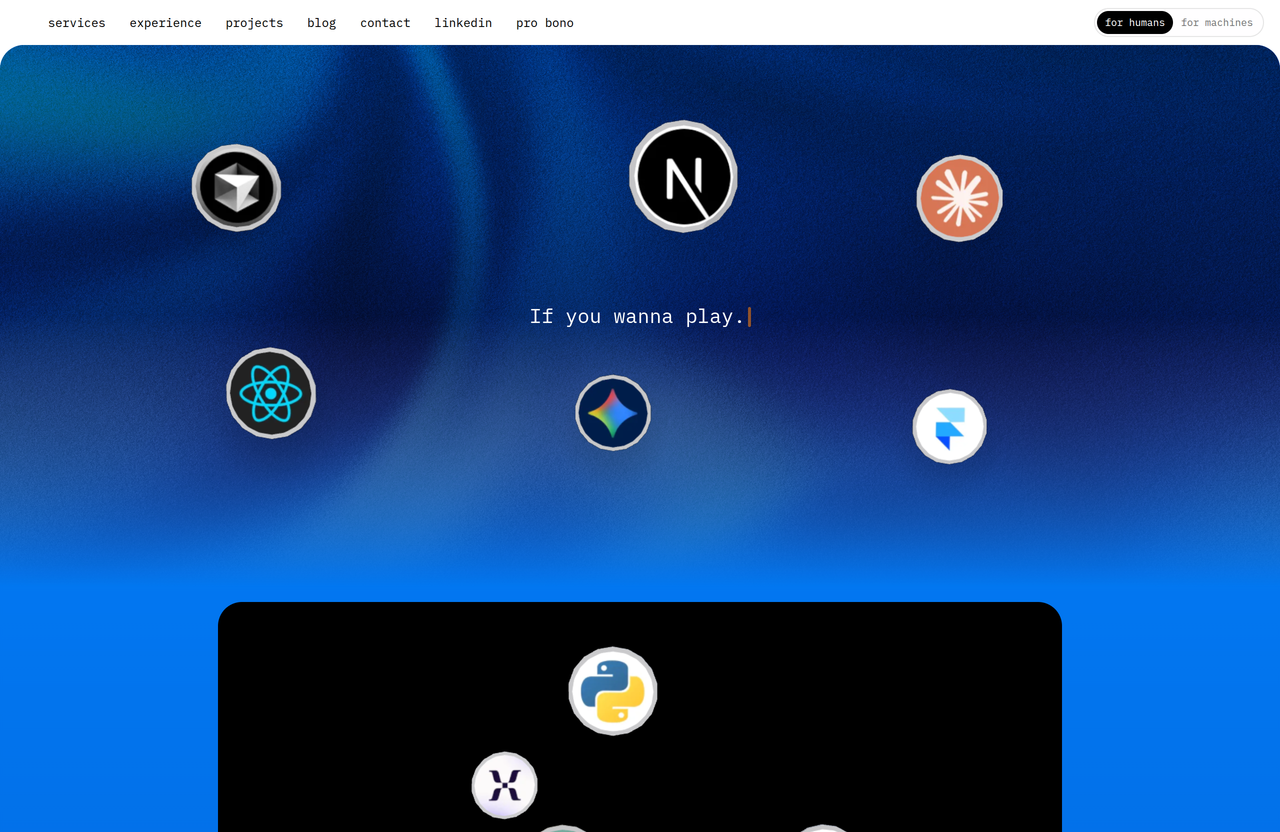
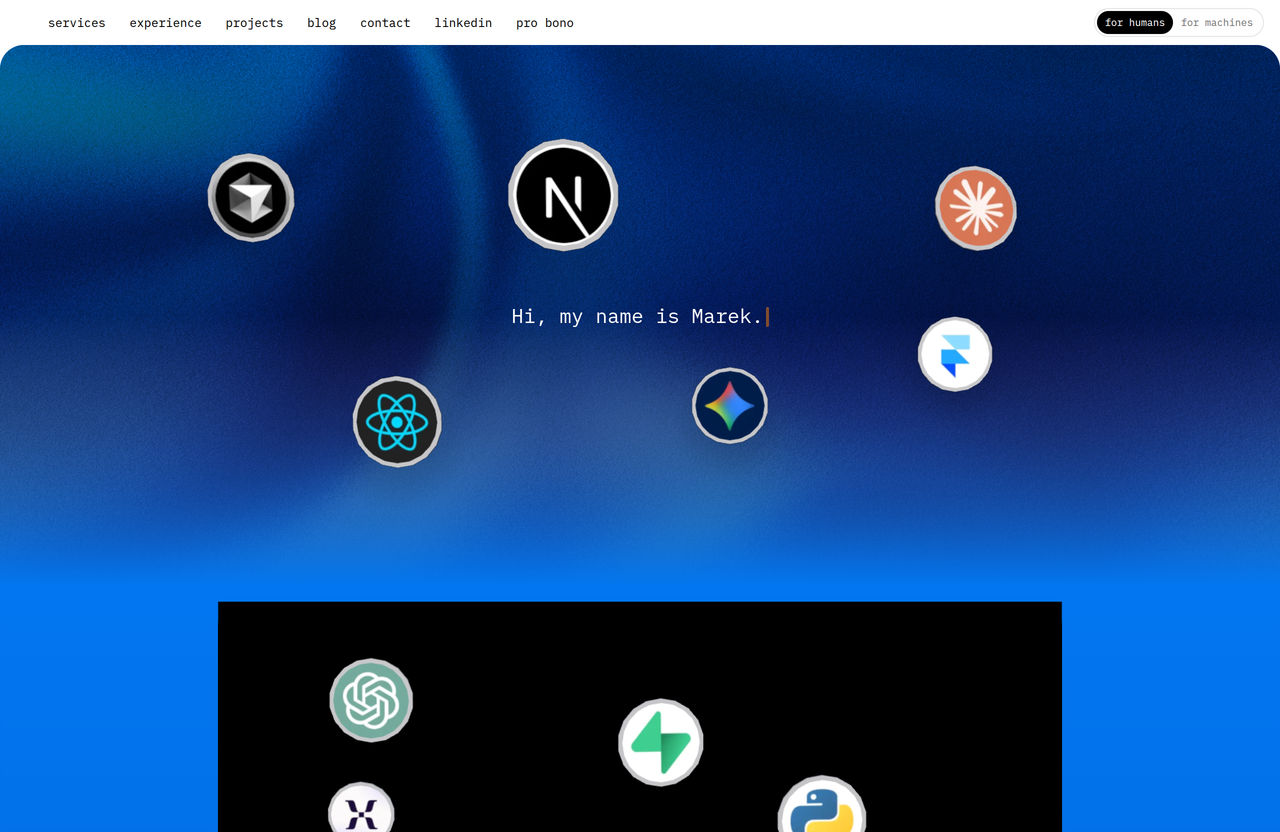
feat(hero): correct mouth straddle, card settle, frosted mats, denser cloud
Design critic (7.6) blockers — threaded with Marek's FPS/lip/z-order fixes.

1. Mouth stretch (correct this time): chips straddling the box top dip behind a
   TALL, plain (unlit, no line) occluder just behind z=0, so a crossing chip
   shows a clean cap above the lip and squashes vertically as it squeezes
   through — position-based, so only actively-crossing chips are affected and
   they pop to fully-visible right as they clear the rim (no vanish, no stuck-
   behind-a-line, no glowing seam).
2. Settled reads as the card: the spread keeps a gutter (SPREAD_INSET_FRAC max
   0 -> 0.035) and the corners stay rounded (radius 24->14 not 0), so the black
   services box never becomes a full-bleed void. Copy padded inside the card
   (bottom-6 / md:bottom-8).
3. Materials dialed down: dark frosted-glass rims (low metalness + high
   roughness, soft specular) with subtle cool/neutral/warm tint variation;
   matte off-white cap. Less chrome toy. (Still Standard, no Physical.)
4. Tighter settled cloud: landing band 0.18-0.56 -> 0.14-0.46, denser packing.
5. Artifacts refreshed + new idle-only frame (full hero field, box cropped off)
   proving the clear zone, plus hero / mid-handoff / settled.

Perf work retained (idle-stop rAF, cached rects, shared mats, low segments,
mobile LOD, DPR<=1.25/1.5, no lit line). typecheck/lint/build/tests pass (35/35).

diff --git a/components/sections/CircleFieldThree.tsx b/components/sections/CircleFieldThree.tsx
@@ -29,6 +29,7 @@ import {
   spreadMarginPx,
 } from "./serviceReveal";
 import { PATH_HORIZONTAL, PATH_VERTICAL } from "./pathConfig";
+import { boxBandFromMargin } from "./circleLayoutCache";
 import { useMediaQuery } from "@/hooks/useMediaQuery";
 import {
   EMPTY_LAYOUT_CACHE,
@@ -48,6 +49,7 @@ import {
   createCoinGeometry,
   createCoinMaterials,
   createLights,
+  createMouthOccluder,
   createShadow,
   createShadowTexture,
   type Coin,
@@ -74,6 +76,13 @@ const gauss = (x: number, mu: number, sigma: number) => {
   const d = (x - mu) / sigma;
   return Math.exp(-0.5 * d * d);
 };
+const sstep = (a: number, b: number, x: number) => {
+  const t = a === b ? (x >= b ? 1 : 0) : (x - a) / (b - a);
+  const c = t < 0 ? 0 : t > 1 ? 1 : t;
+  return c * c * (3 - 2 * c);
+};
+
+const MAX_LOGO_SIZE = Math.max(...CIRCLE_LOGOS.map((l) => l.size));
 
 type CircleFieldProps = {
   servicesRef: RefObject<HTMLElement | null>;
@@ -107,6 +116,7 @@ export default function CircleFieldThree({
   const coinsRef = useRef<Coin[]>([]);
   const shadowsRef = useRef<Mesh[]>([]);
   const appearRef = useRef<number[]>([]);
+  const occluderRef = useRef<Mesh | null>(null);
   const geoRef = useRef<CoinGeometry | null>(null);
   const matsRef = useRef<CoinMaterials | null>(null);
   const lightsRef = useRef<Light[]>([]);
@@ -262,6 +272,15 @@ export default function CircleFieldThree({
       const scale = logoScaleForWidth(viewportRef.current.w);
       const dockEase = smoother(tv);
 
+      // Mouth geometry (overlay-local): where the box top sits + how deep the
+      // rim occludes. The occluder is TALL (covers the box interior below the
+      // lip) so a straddling chip — which is the only thing dipped behind it —
+      // shows a clean cap above the lip, never a mid-slice or bottom sliver.
+      const band = boxBandFromMargin(cache, mgn);
+      const boxTopLocalY = band.bandTop;
+      const maxScreenR = (MAX_LOGO_SIZE * scale * 1.17) / 2;
+      const occH = Math.max(maxScreenR * 2.6, band.bandH * 0.5);
+
       for (let i = 0; i < coins.length; i++) {
         const coin = coins[i];
         const shadow = shadows[i];
@@ -282,13 +301,32 @@ export default function CircleFieldThree({
         appear[i] = ap;
         const apEase = ap * ap * (3 - 2 * ap);
 
-        // Depth is a small sort offset only (near in front for correct overlap);
-        // no occluder, so chips always render cleanly over the box — never stuck
-        // behind a fake line.
-        const zSort = (nearF - 0.5) * Z_SORT;
+        // Near/far SIZE (drives visible parallax; landing stays pixel-exact).
+        const sizeMul = 1 + (nearF - 0.5) * 0.34;
+        const settle = c.origin === "box" ? 1 : 1 + (1 - dockEase) * 0.06;
+        const screenR = (CIRCLE_LOGOS[i].size * scale * sizeMul * settle) / 2;
+
+        // --- MOUTH: a chip straddling the box top dips behind the rim occluder
+        //     (which lives just behind z=0, so settled/hero chips never clip) and
+        //     squashes vertically as it squeezes through the lip. Position-based,
+        //     so it only affects chips actually crossing — never stuck behind. ---
+        // Straddle peaks while the chip's center is at the lip and falls to 0
+        // by the time it has fully entered (top edge reaches the lip), so it
+        // pops to fully-visible right as it clears the rim — no vanish.
+        const dCross = pose.y - boxTopLocalY; // + = below the box top
+        const straddle =
+          c.origin === "hero"
+            ? sstep(-screenR, -screenR * 0.15, dCross) *
+              (1 - sstep(screenR * 0.35, screenR, dCross))
+            : 0;
+
+        // Depth: sort offset kept >= 0 so nothing but a straddling chip is ever
+        // behind the occluder; near tier sits in front for correct overlaps.
+        const zSort = nearF * Z_SORT;
         const zHero = HERO_LIFT + nearF * 30;
         let zc = c.origin === "box" ? zSort : zHero + (zSort - zHero) * dockEase;
         zc += Math.sin(frameTime * 0.0004 * (0.55 + nearF) + c.phase) * 6 * nearF * idle;
+        zc -= 130 * straddle; // dip behind the rim
 
         // --- depth-scaled scroll differential (near leads the dock, far lags) ---
         const lead = c.origin === "box" ? 0 : (nearF - 0.5) * 26 * gauss(tv, 0.5, 0.2);
@@ -305,19 +343,20 @@ export default function CircleFieldThree({
             lead +
             Math.cos(idleT * (c.fy ?? 0.0005) + (c.spinPhase ?? 0)) * parAmp * 0.7);
 
-        // Keep the projected center locked to the target px; visible near/far
-        // scale is a baked multiplier so landing never drifts with depth.
+        // Keep the projected center locked to the target px at any depth.
         const f = (camDist - zc) / camDist;
         const worldX = canvasW / 2 + (worldScreenX - canvasW / 2) * f;
         const worldY = canvasH / 2 + (worldScreenY - canvasH / 2) * f;
-        const sizeMul = 1 + (nearF - 0.5) * 0.34; // clearer near/far scale
-        const settle = c.origin === "box" ? 1 : 1 + (1 - dockEase) * 0.06;
-        const screenR = (CIRCLE_LOGOS[i].size * scale * sizeMul * settle) / 2;
         const worldR = screenR * f * apEase;
 
         coin.group.visible = apEase > 0.01;
         coin.group.position.set(worldX, worldY, zc);
-        coin.group.scale.setScalar(Math.max(0.0001, worldR));
+        // Squash through the lip: pinch vertically, bulge slightly wide.
+        coin.group.scale.set(
+          Math.max(0.0001, worldR * (1 + 0.13 * straddle)),
+          Math.max(0.0001, worldR * (1 - 0.32 * straddle)),
+          Math.max(0.0001, worldR),
+        );
 
         // --- tilt + depth-scaled idle micro-yaw + a gentle lean while docking ---
         const tipIn = c.origin === "box" ? 0 : gauss(tv, 0.5, 0.24) * 0.26;
@@ -340,6 +379,17 @@ export default function CircleFieldThree({
           shadow.scale.set(shScale, shScale, 1);
           shMat.opacity = 0.3 * apEase;
         }
+      }
+
+      // Rim occluder: plain black bar at the box top edge (invisible on the
+      // black card — no lit line), sitting just behind z=0 so only straddling
+      // chips tuck under it.
+      const occ = occluderRef.current;
+      if (occ) {
+        const boxW = Math.max(1, canvasW - 2 * mgn);
+        const topWorldY = canvasH - (band.bandTop + offY);
+        occ.position.set(canvasW / 2, topWorldY - occH / 2, -2);
+        occ.scale.set(boxW, occH, 1);
       }
 
       renderer.render(scene, camera);
@@ -483,6 +533,10 @@ export default function CircleFieldThree({
     const loader = new TextureLoader();
     const maxAniso = renderer.capabilities.getMaxAnisotropy();
 
+    const occluder = createMouthOccluder();
+    scene.add(occluder);
+    occluderRef.current = occluder;
+
     const coins: Coin[] = [];
     const shadows: Mesh[] = [];
     appearRef.current = CIRCLE_LOGOS.map(() => 0);
@@ -535,6 +589,9 @@ export default function CircleFieldThree({
       geo.blank.dispose();
       geo.decal.dispose();
       geo.shadow.dispose();
+      scene.remove(occluder);
+      (occluder.material as { dispose: () => void }).dispose();
+      occluder.geometry.dispose();
       renderer.dispose();
       rendererRef.current = null;
       sceneRef.current = null;

diff --git a/components/sections/coinFactory.ts b/components/sections/coinFactory.ts
@@ -45,30 +45,30 @@ export type CoinMaterials = {
 };
 
 export function createCoinMaterials(): CoinMaterials {
+  // Dark frosted-glass rims — low metalness + high roughness = soft, diffuse
+  // specular (no chrome-toy glare). Subtle cool/neutral/warm tint variation.
   const rimMats = [
-    // cool steel
     new MeshStandardMaterial({
-      color: new Color(0.78, 0.82, 0.9),
-      metalness: 0.3,
-      roughness: 0.3,
+      color: new Color(0.28, 0.32, 0.4),
+      metalness: 0.1,
+      roughness: 0.62,
     }),
-    // neutral silver
     new MeshStandardMaterial({
-      color: new Color(0.88, 0.89, 0.9),
-      metalness: 0.22,
-      roughness: 0.4,
+      color: new Color(0.34, 0.35, 0.38),
+      metalness: 0.08,
+      roughness: 0.66,
     }),
-    // warm brass-ish
     new MeshStandardMaterial({
-      color: new Color(0.9, 0.85, 0.74),
-      metalness: 0.28,
-      roughness: 0.34,
+      color: new Color(0.4, 0.36, 0.31),
+      metalness: 0.1,
+      roughness: 0.6,
     }),
   ];
+  // Soft off-white body under the logo (matte, not glossy).
   const capMat = new MeshStandardMaterial({
-    color: new Color(0.95, 0.95, 0.97),
+    color: new Color(0.9, 0.9, 0.93),
     metalness: 0.0,
-    roughness: 0.45,
+    roughness: 0.6,
   });
   return { rimMats, capMat };
 }
@@ -143,6 +143,19 @@ export function createShadowTexture(): CanvasTexture {
   const tex = new CanvasTexture(canvas);
   tex.colorSpace = SRGBColorSpace;
   return tex;
+}
+
+/**
+ * Plain box-colored bar at the services box top edge — NO highlight/lit line
+ * (that read as an artifact). It is invisible against the black card and only
+ * occludes chips that dip behind it while straddling the "mouth", so they read
+ * as tucking under the lip instead of sliding over a color seam.
+ */
+export function createMouthOccluder(): Mesh {
+  const mat = new MeshBasicMaterial({ color: 0x000000, toneMapped: false });
+  const mesh = new Mesh(new PlaneGeometry(1, 1), mat);
+  mesh.renderOrder = 1;
+  return mesh;
 }
 
 export function createLights(): Light[] {

diff --git a/components/sections/serviceReveal.ts b/components/sections/serviceReveal.ts
@@ -13,11 +13,12 @@ import { smoothstep } from "@/lib/math";
 // the same progress so the logos glide with the box instead of teleporting.
 export const SPREAD_BREAKPOINTS = [0, 0.25, 0.35, 0.8, 0.9, 1] as const;
 
-// Side inset as a FRACTION of the container width (so the box is dramatically
-// narrow when inset and reads full-bleed at 0). Responsive by construction:
-// `spreadMarginPx()` multiplies by the live container width, keeping Services'
-// marginX and CircleField's landing band in exact px lockstep on every screen.
-export const SPREAD_INSET_FRAC = [0.17, 0.17, 0, 0, 0.17, 0.17] as const;
+// Side inset as a FRACTION of the container width. The box starts dramatically
+// narrow and spreads wide — but KEEPS a gutter at max spread so it always reads
+// as the black services *card* (not a full-bleed void). Responsive by
+// construction: `spreadMarginPx()` multiplies by the live container width,
+// keeping Services' marginX and CircleField's landing band in exact px lockstep.
+export const SPREAD_INSET_FRAC = [0.17, 0.17, 0.035, 0.035, 0.17, 0.17] as const;
 
 // Clamp so the inset never collapses to nothing on phones nor grows absurd on
 // ultrawide displays.

diff --git a/components/sections/circleFieldModel.ts b/components/sections/circleFieldModel.ts
@@ -33,10 +33,10 @@ export const PATH_CIRCLE_NEXTJS = 5;
 export const BOX_COUNT = 4;
 export const HERO_COUNT = 6;
 
-// Landed coins live in the UPPER band of the box only, so the bottom-pinned copy
-// keeps its own reserved strip and is never covered.
-const BOX_BAND_TOP = 0.18;
-const BOX_BAND_BOTTOM = 0.56;
+// Landed coins live in a TIGHT upper band of the box, so the empty strip above
+// the bottom-pinned copy reads as intentional negative space (not a sparse void).
+const BOX_BAND_TOP = 0.14;
+const BOX_BAND_BOTTOM = 0.46;
 
 export function mulberry32(seed: number) {
   let a = seed >>> 0;
@@ -92,9 +92,10 @@ export function makeCircles(): CircleModel[] {
 
   const TOTAL = BOX_COUNT + HERO_COUNT;
 
-  // Landing slots inside the box's upper band, spaced out (Poisson-ish).
+  // Landing slots inside the box's upper band, spaced out (Poisson-ish) but
+  // packed tighter for a denser cluster.
   const slots: { x: number; y: number }[] = [];
-  const minDist = 0.2;
+  const minDist = 0.16;
   for (let i = 0; i < TOTAL; i++) {
     let best = { x: 0.5, y: 0.4 };
     let bestD = -1;

diff --git a/components/sections/Services.tsx b/components/sections/Services.tsx
@@ -40,7 +40,8 @@ export default function Services({
   );
 
   const borderRadius = useTransform(scrollYProgress, (progress) => {
-    const px = interpolateProgress(progress, [0.25, 0.35, 0.8, 0.9], [24, 0, 0, 24]);
+    // Stay rounded even at max spread so it always reads as the services card.
+    const px = interpolateProgress(progress, [0.25, 0.35, 0.8, 0.9], [24, 14, 14, 24]);
     return `${px}px`;
   });
 
@@ -64,7 +65,7 @@ export default function Services({
       >
         <motion.p
           style={{ opacity: textOpacity }}
-          className="absolute inset-x-0 bottom-[12px] px-6 text-center font-mono text-white"
+          className="absolute inset-x-0 bottom-6 px-6 text-center font-mono text-white md:bottom-8"
         >
           Today&apos;s digital space is made for people of many talents.
         </motion.p>

diff --git a/components/sections/serviceReveal.test.ts b/components/sections/serviceReveal.test.ts
@@ -32,8 +32,9 @@ describe("spreadMarginPx", () => {
     expect(spreadMarginPx(0, 1000)).toBeCloseTo(170);
   });
 
-  it("is zero at full-bleed (progress 0.5)", () => {
-    expect(spreadMarginPx(0.5, 1000)).toBe(0);
+  it("keeps a gutter at max spread so it still reads as a card (progress 0.5)", () => {
+    // 3.5% of 1000px — a visible gutter, not full-bleed.
+    expect(spreadMarginPx(0.5, 1000)).toBeCloseTo(35);
   });
 
   it("clamps the inset on very narrow and very wide containers", () => {
